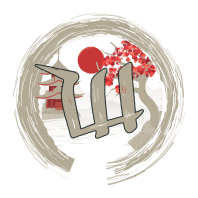
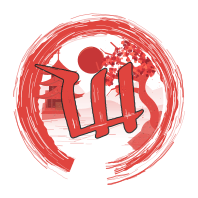
fix(arts-lits): use red Home ink in dark mode

diff --git a/src/screens/ArtsLits/living-art/LivingArtIcon.tsx b/src/screens/ArtsLits/living-art/LivingArtIcon.tsx
@@ -96,7 +96,7 @@ function VectorArt({name,dark,reducedMotion,paused}:ArtProps&{name:VectorName}){
   const content=useMemo(()=>!ready||(reducedMotion&&name!=='Explore')?null:tree(name)[2].map((n,i)=>renderNode(n,{name,dark,reduced:reducedMotion,parentClass:'',parentStyle:'',inMask:false,cherries:false},i)),[ready,name,dark,reducedMotion]);
   if(name!=='Explore'&&(!ready||reducedMotion))return <View pointerEvents="none" accessible={false} style={{width:w,height:h,overflow:'visible'}}><Image source={stills[name][dark?'dark':'light']} resizeMode="contain" fadeDuration={0} accessible={false} style={{position:'absolute',left:-pad,top:-pad,width:w+2*pad,height:h+2*pad}}/></View>;
   return <ClockContext.Provider value={reducedMotion?0:clock}><View pointerEvents="none" accessible={false} style={{width:w,height:h,overflow:'visible'}}>
-    <Svg width={w+2*pad} height={h+2*pad} viewBox={expanded} color={name==='Home'?(dark?'#b3aa95':'#171612'):(dark?'#f0e9dd':'#222522')} style={{position:'absolute',left:-pad,top:-pad,overflow:'visible'}}>
+    <Svg width={w+2*pad} height={h+2*pad} viewBox={expanded} color={name==='Home'?(dark?'#e0443e':'#171612'):(dark?'#f0e9dd':'#222522')} style={{position:'absolute',left:-pad,top:-pad,overflow:'visible'}}>
       {content}
     </Svg>
   </View></ClockContext.Provider>;
